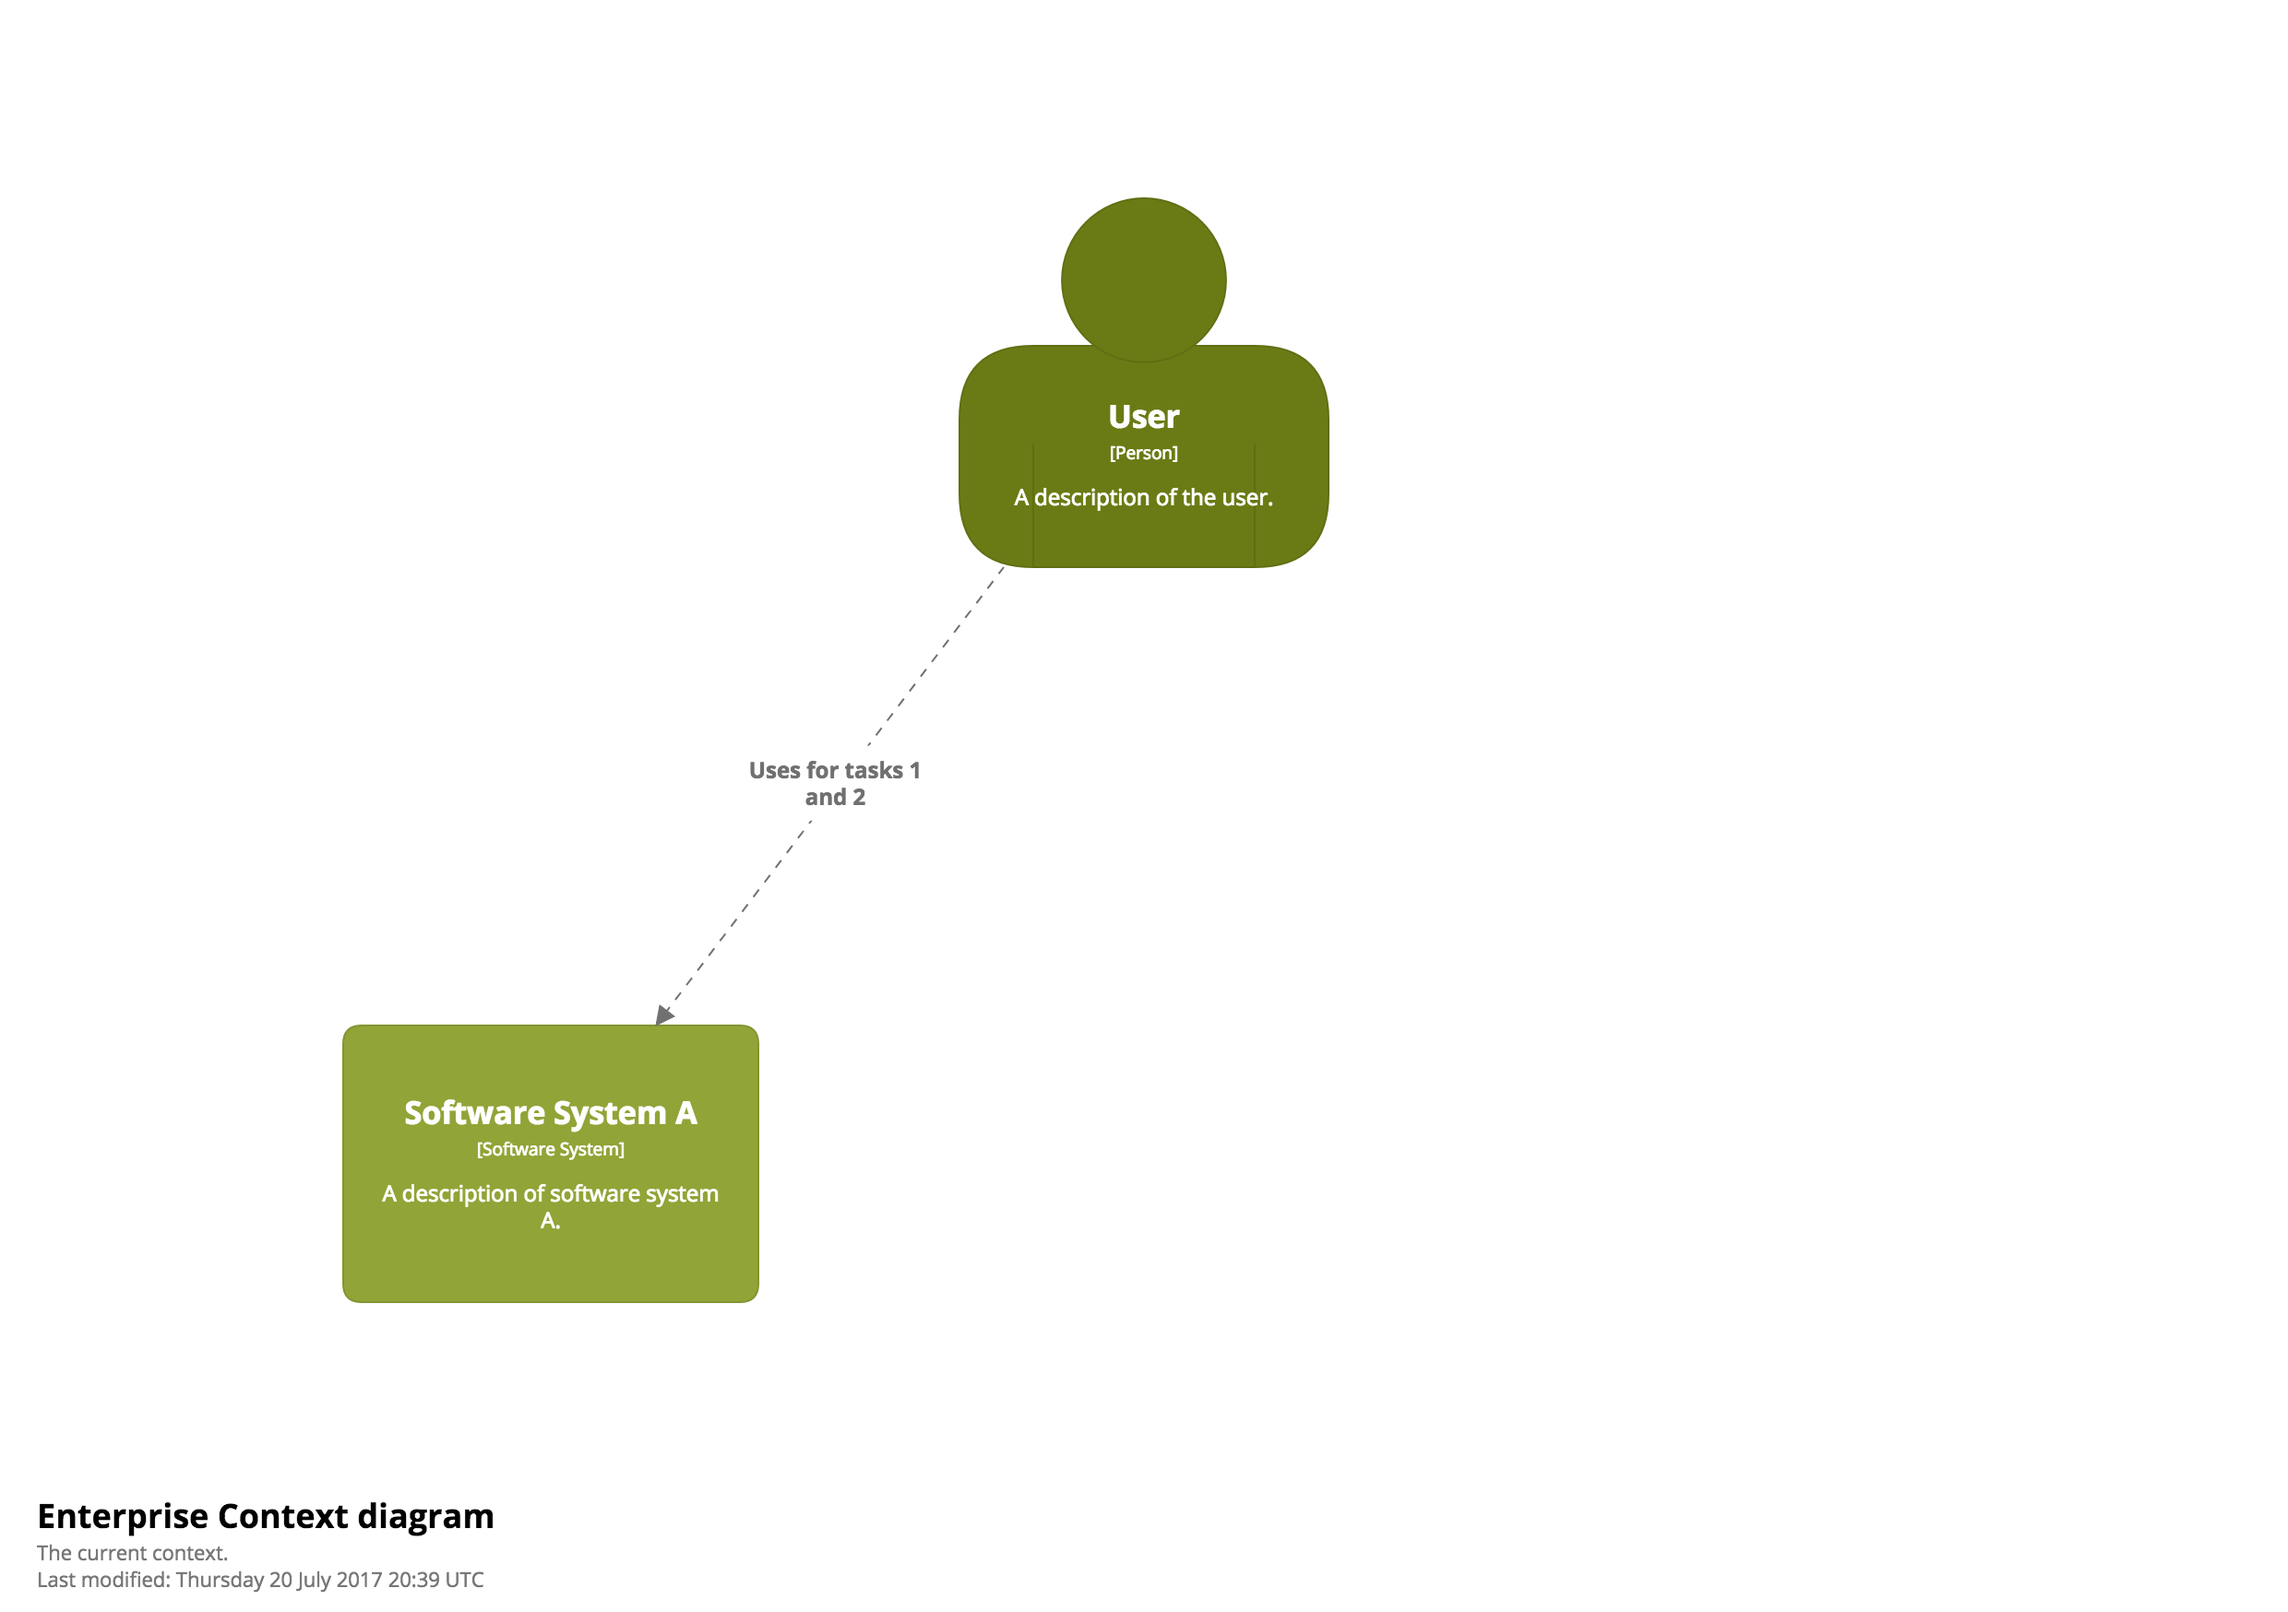
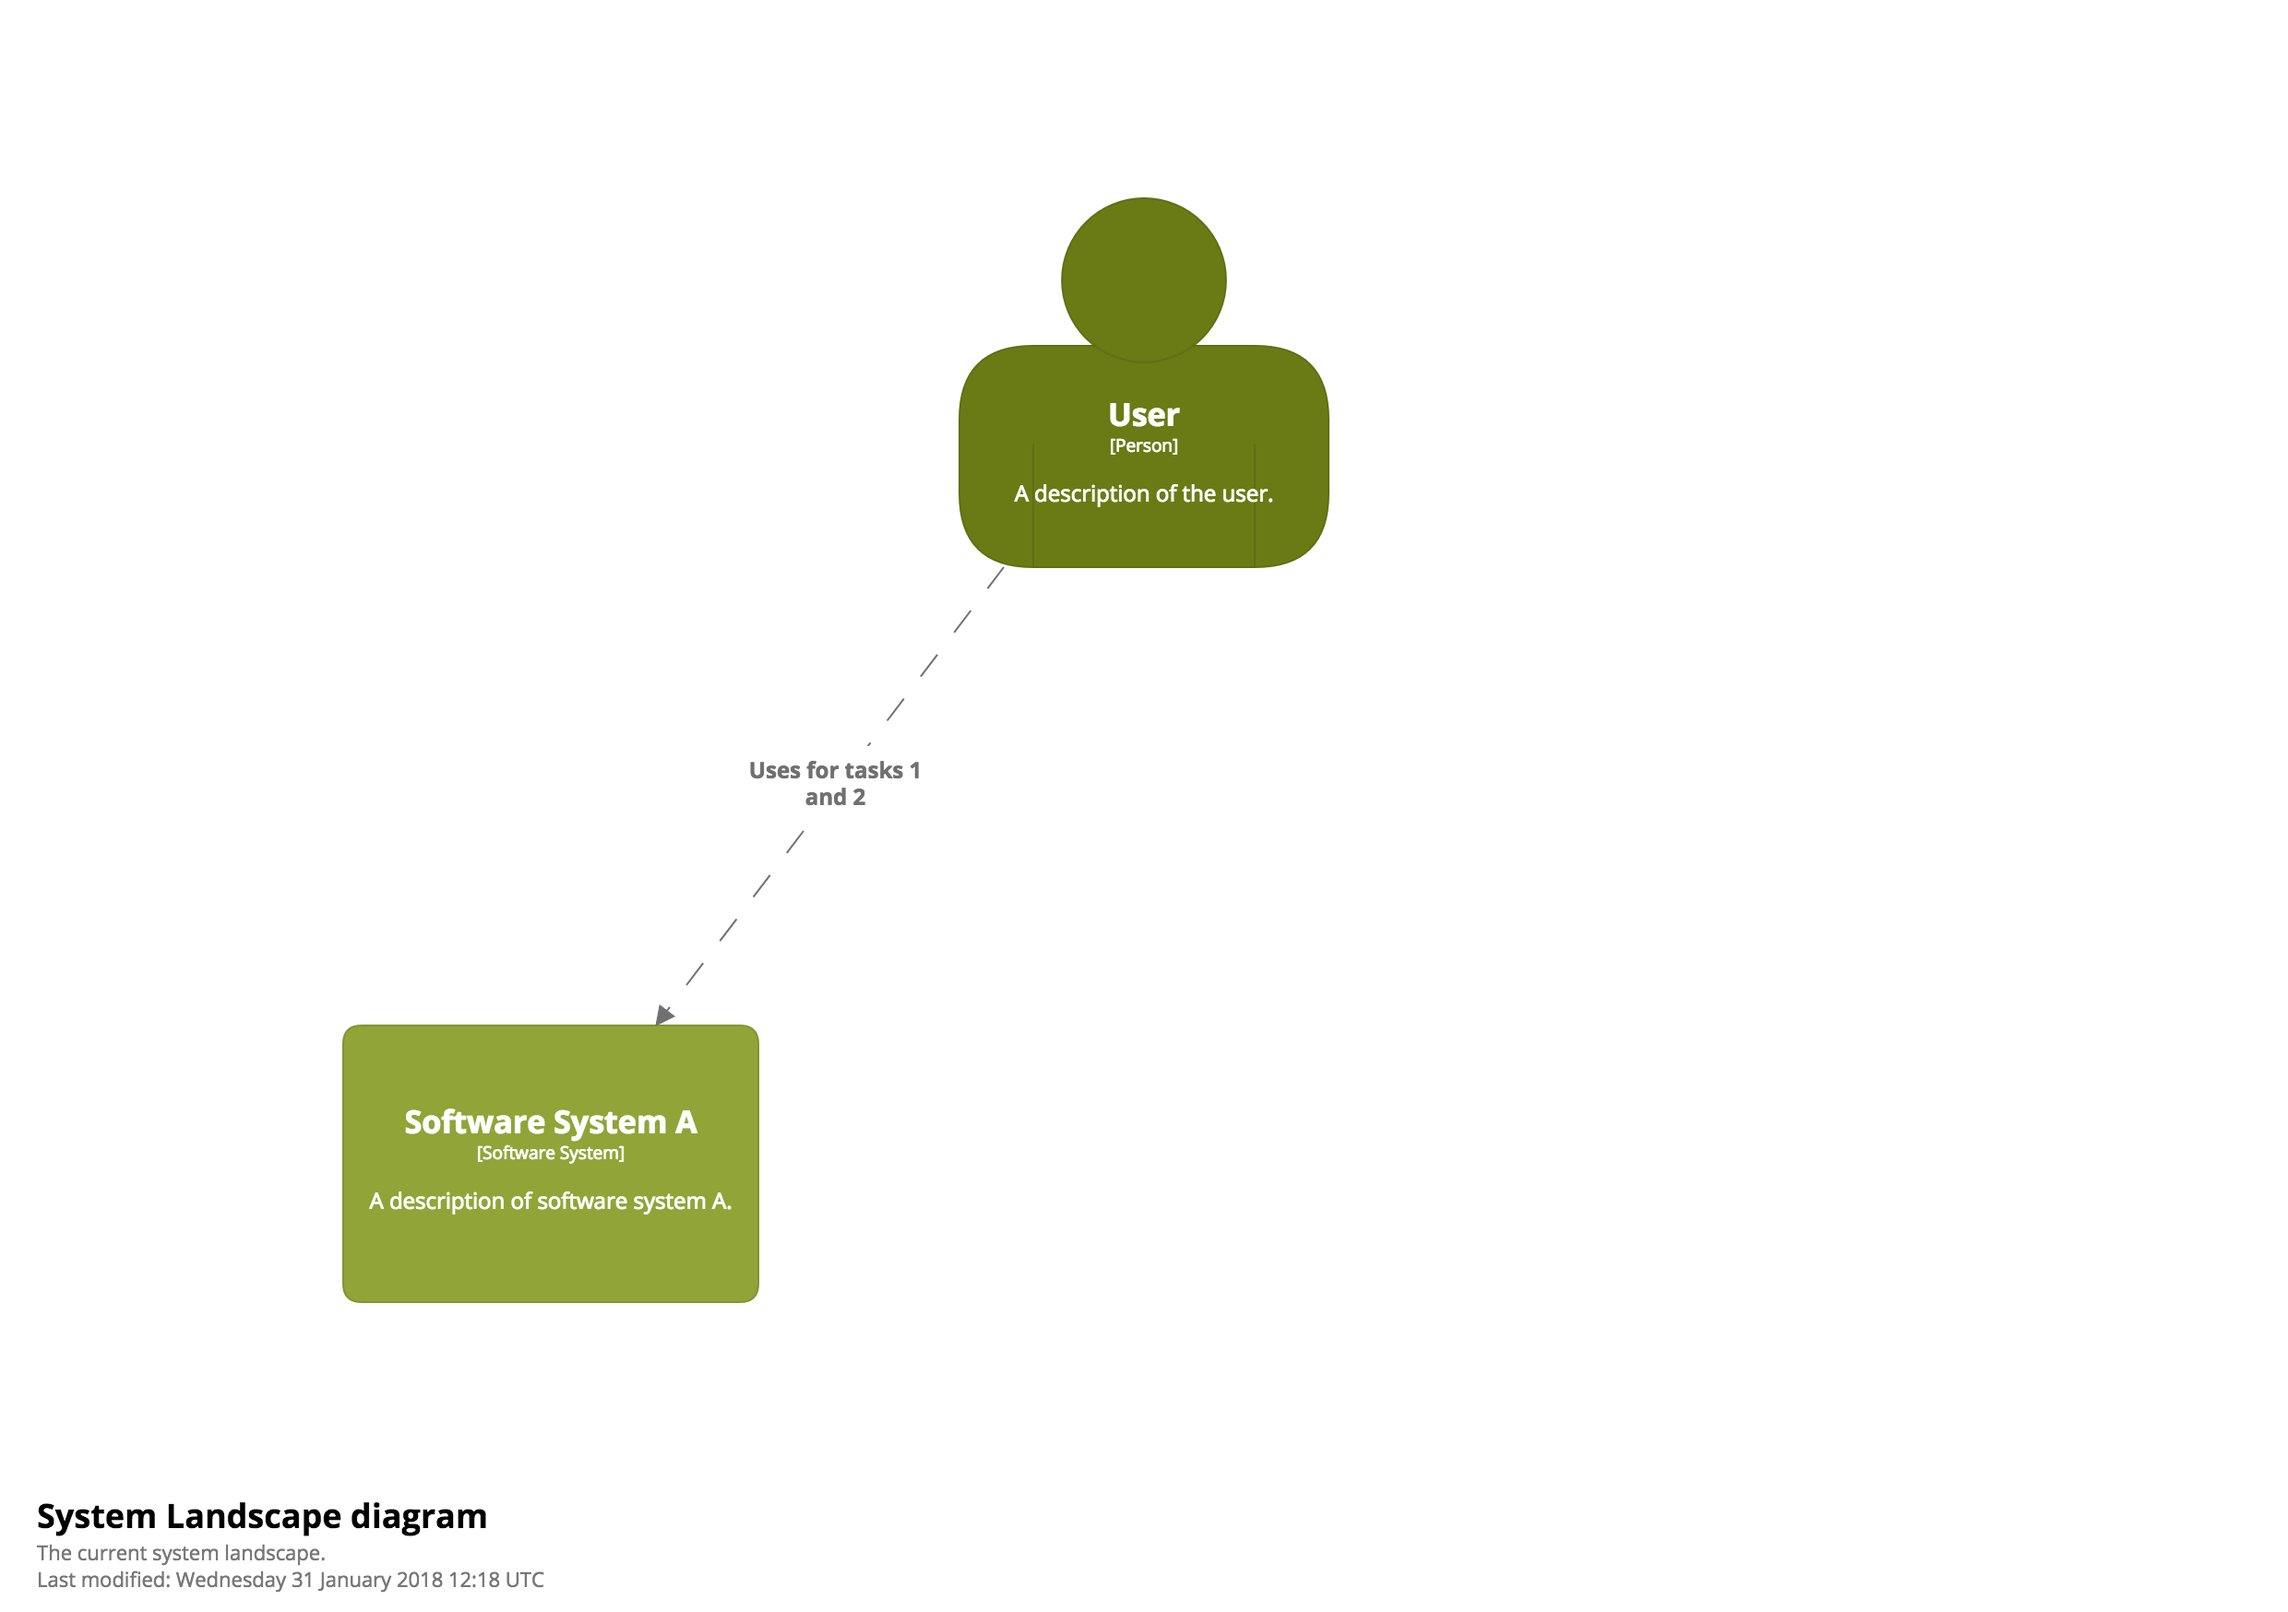
^Enterprise Context^System Landscape

Changed region(s): [[0.1552, 0.6796, 0.3105, 0.7723], [0.0, 0.9268, 0.2173, 0.9886], [0.4657, 0.2471, 0.5278, 0.3089]]

diff --git a/structurizr-core/src/com/structurizr/Workspace.java b/structurizr-core/src/com/structurizr/Workspace.java
@@ -144,7 +144,7 @@ public final class Workspace extends AbstractWorkspace {
         // workspaces created with the early versions of Structurizr for Java
         getViews().getSystemLandscapeViews().stream()
                 .filter(v -> v.getKey() == null)
-                .forEach(v -> warnings.add("Enterprise Context view \"" + v.getName() + "\": Missing key"));
+                .forEach(v -> warnings.add("System Landscape view \"" + v.getName() + "\": Missing key"));
         getViews().getSystemContextViews().stream()
                 .filter(v -> v.getKey() == null)
                 .forEach(v -> warnings.add("System Context view \"" + v.getName() + "\": Missing key"));

diff --git a/structurizr-core/src/com/structurizr/view/SystemLandscapeView.java b/structurizr-core/src/com/structurizr/view/SystemLandscapeView.java
@@ -16,7 +16,7 @@ public final class SystemLandscapeView extends StaticView {
     }
 
     /**
-     * Creates an enterprise context view.
+     * Creates an system landscape view.
      *
      * @param key                   the key for the view
      * @param description           the description for the view

diff --git a/docs/filtered-views.md b/docs/filtered-views.md
@@ -2,7 +2,7 @@
 
 A filtered view represents a view on top of another view, which can be used to include or exclude specific elements and/or relationships, based upon their tag. The benefit of using filtered views is that element and relationship positions are shared between the views.
 
-Filtered views can be created on top of static views only; i.e. Enterprise Context, System Context, Container and Component views.
+Filtered views can be created on top of static views only; i.e. System Landscape, System Context, Container and Component views.
 
 ## Example
 
@@ -27,11 +27,11 @@ user.uses(softwareSystemA, "Uses for task 1").addTags(FUTURE_STATE);
 user.uses(softwareSystemB, "Uses for task 2").addTags(FUTURE_STATE);
 
 ViewSet views = workspace.getViews();
-EnterpriseContextView enterpriseContextView = views.createEnterpriseContextView("EnterpriseContext", "An example Enterprise Context diagram.");
-enterpriseContextView.addAllElements();
+SystemLandscapeView systemLandscapeView = views.createSystemLandscapeView("SystemLandscape", "An example System Landscape diagram.");
+systemLandscapeView.addAllElements();
 
-views.createFilteredView(enterpriseContextView, "CurrentState", "The current context.", FilterMode.Exclude, FUTURE_STATE);
-views.createFilteredView(enterpriseContextView, "FutureState", "The future state context after Software System B is live.", FilterMode.Exclude, CURRENT_STATE);
+views.createFilteredView(systemLandscapeView, "CurrentState", "The current system landscape.", FilterMode.Exclude, FUTURE_STATE);
+views.createFilteredView(systemLandscapeView, "FutureState", "The future state system landscape after Software System B is live.", FilterMode.Exclude, CURRENT_STATE);
 ```
 
 In summary, you create a view with all of the elements and relationships that you want to show, and then create one or more filtered views on top, specifying the tags that you'd like to include or exclude.
